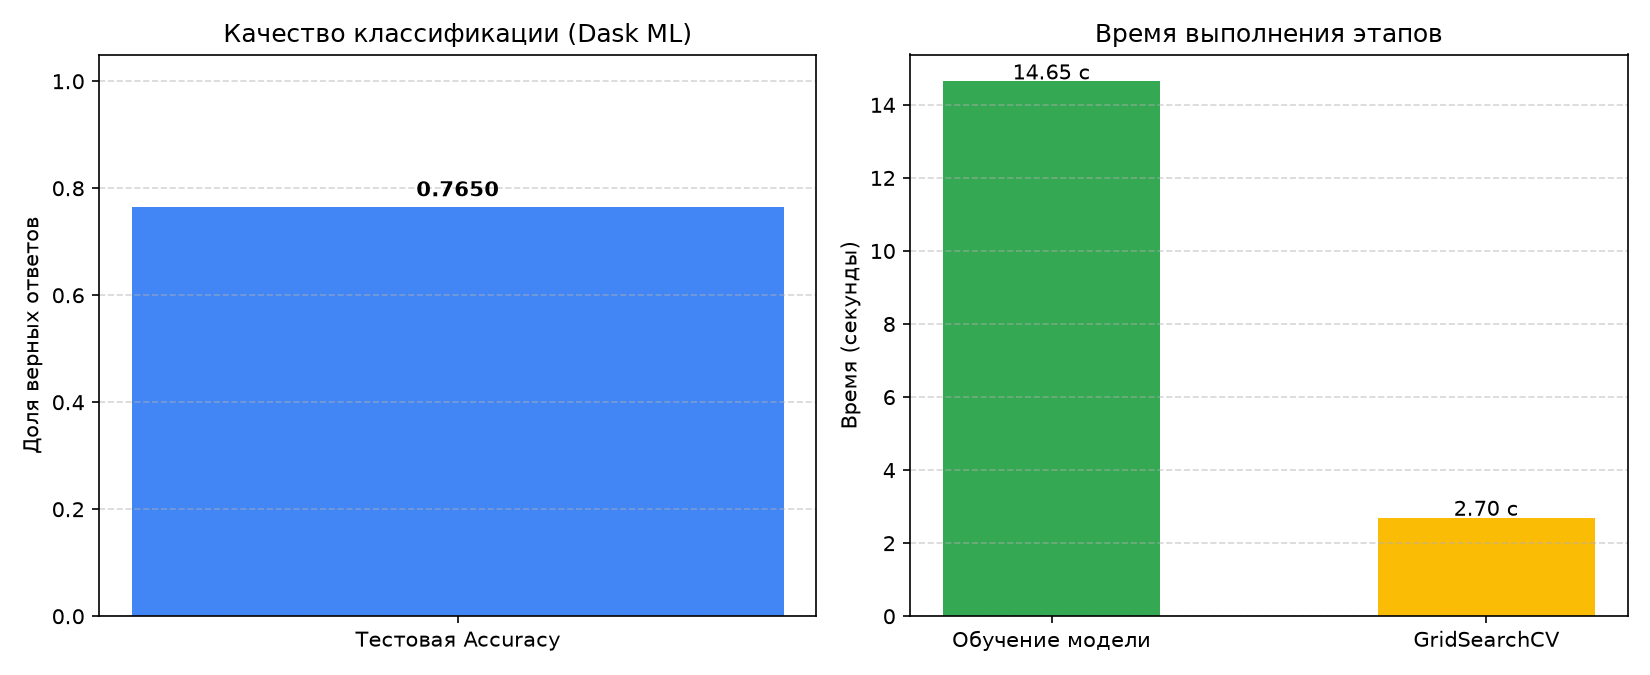
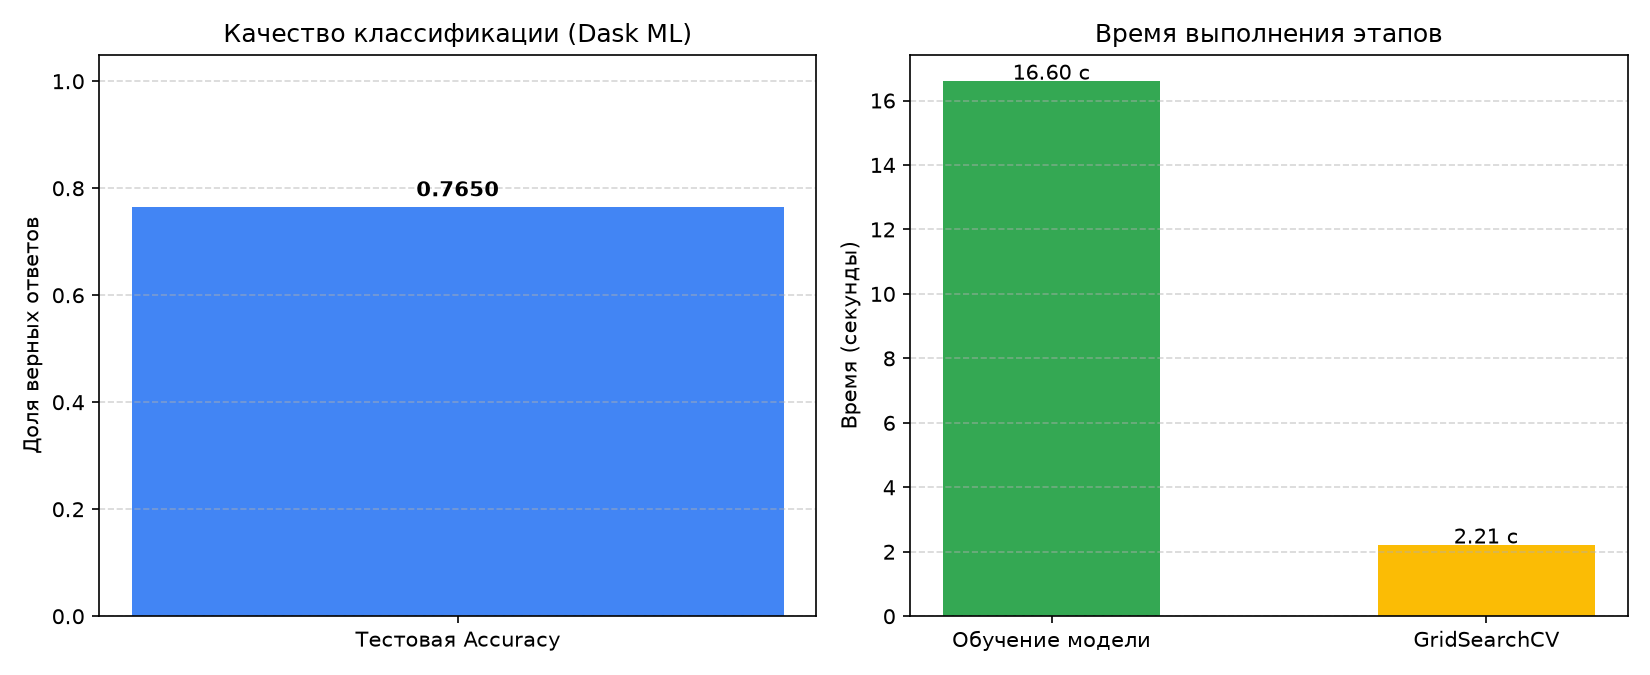
fix: fix task 5

diff --git a/PR/05_ml_dask/solution.py b/PR/05_ml_dask/solution.py
@@ -174,6 +174,10 @@ def main() -> None:
         best_model, tune_time = hyperparameter_tuning(X_train, y_train)
         accuracy = evaluate_model(best_model, X_test, y_test)
         visualize_results(accuracy, train_time, tune_time)
+
+    except Exception as e:
+        print(f'Произошла ошибка {e}')
+
     finally:
         client.close()
         print("\nКластер Dask успешно остановлен.")
